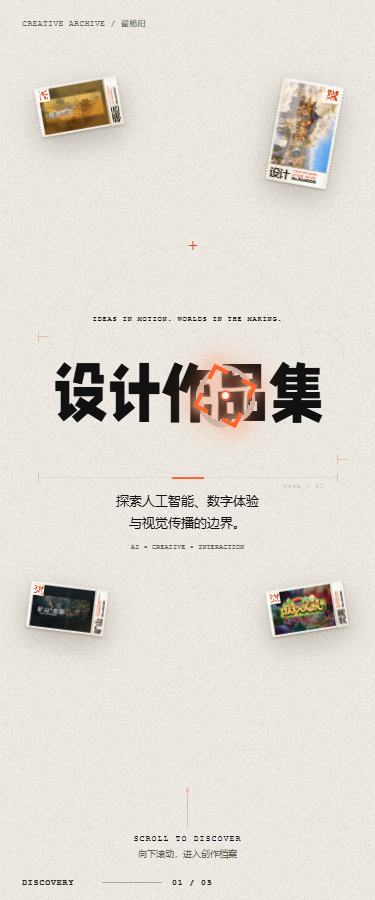
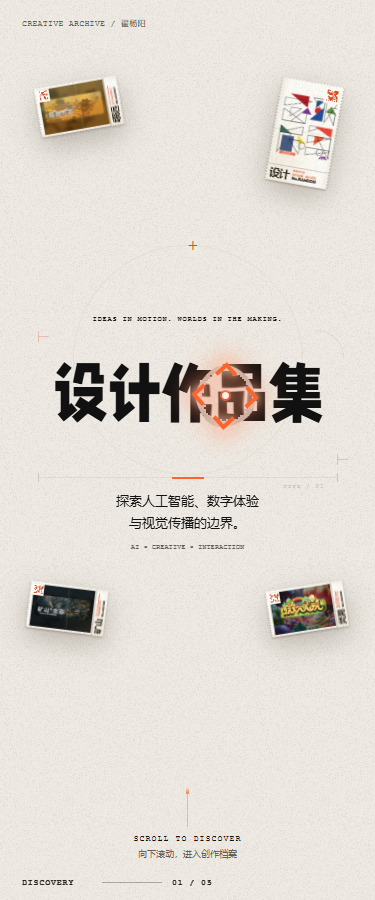
黑屏白点开场后，水滴和标题折叠动画同时入场。

Changed region(s): [[0.704, 0.0933, 0.9093, 0.2178], [0.4987, 0.4044, 0.704, 0.4978]]

diff --git a/New/js/components/GlassTitle.jsx b/New/js/components/GlassTitle.jsx
@@ -25,22 +25,22 @@ export function GlassTitle() {
     return () => clearTimeout(timer);
   }, [ready,reduced]);
   useEffect(() => {
-    const landing = host.current.closest('.hero-landing');
+    const hero = host.current.closest('.hero');
     let active = true, fontReady = false;
-    const reveal = () => { if (active && fontReady && !landing?.inert) setReady(true); };
+    const reveal = () => { if (active && fontReady && Number(hero?.dataset.progress)>=.62) setReady(true); };
     const observer = new MutationObserver(reveal);
-    if (landing) observer.observe(landing, { attributes:true, attributeFilter:['inert'] });
+    if (hero) observer.observe(hero, { attributes:true, attributeFilter:['data-progress'] });
     document.fonts.load('400 100px "PortfolioTitle"', '设计作品集').finally(() => { if (!active) return; fontReady = true; setFontLoaded(true); reveal(); });
     return () => { active = false; observer.disconnect(); };
   }, []);
-  return <div ref={host} className="hero-glass-title hero-fold-title" data-glass-active={glass && !reduced ? 'true' : 'false'}><h1 id="hero-title">
+  return <div ref={host} className="hero-glass-title hero-fold-title" data-title-ready={ready} data-fold-complete={glass} data-glass-active={ready && !reduced ? 'true' : 'false'}><h1 id="hero-title">
     {ready ? <FoldText text="设计作品集" foldStyle="blinds" splitBy="char" hinge="top"
       trigger="mount" foldAngle={90} duration={1.1} stagger={.08} staggerFrom="center"
       ease="expo.out" hoverRefold={false} refoldRadius={100} refoldAngle={60}
       perspective={500} creaseShading={.8} fontSize="inherit" fontWeight={400}/> : '设计作品集'}
   </h1>
     {fontLoaded && !reduced && <div className="hero-glass-title__effect" aria-hidden="true"><Suspense fallback={null}>
-      <FluidGlass text="设计作品集" fontFamily="PortfolioTitle, Microsoft YaHei, sans-serif"
+      <FluidGlass text={glass ? '设计作品集' : ''} fontFamily="PortfolioTitle, Microsoft YaHei, sans-serif"
         fontWeight={400} fontSize={size.font} textColor="#111111" shape="blob" size={size.compact?68:190}
         interaction="follow" refraction={size.compact?.25:.85} dispersion={size.compact?.18:.85} reflection={size.compact?.3:.75}
         shadow={0} elevation={.25} wobble={size.compact?.15:.4} morphOnClick={false}

diff --git a/New/css/glass-title.css b/New/css/glass-title.css
@@ -12,8 +12,10 @@
 }
 .hero-glass-title__effect { position:absolute; inset:-110px 0; }
 .hero-fold-title .hero-glass-title__effect { opacity:0; pointer-events:none; }
-.hero-fold-title[data-glass-active='true']:has(.fluid-glass[data-glass-ready='true']) .hero-glass-title__effect { opacity:1; }
-.hero-fold-title[data-glass-active='true']:has(.fluid-glass[data-glass-ready='true']) h1 { opacity:0; }
+.hero-fold-title[data-glass-active='true']:has(.fluid-glass[data-glass-ready='true']) .hero-glass-title__effect { opacity:1; animation:glass-arrive .8s cubic-bezier(.22,.7,.3,1) both; }
+@keyframes glass-arrive { from { opacity:0; transform:translateY(12px) scale(.92); } to { opacity:1; transform:none; } }
+.hero-fold-title[data-title-ready='false'] h1 { opacity:0; }
+.hero-fold-title[data-glass-active='true'][data-fold-complete='true']:has(.fluid-glass[data-text-rendered='true']) h1 { opacity:0; }
 .hero .hero-fold-title h1 > .fold-text {
   font: inherit;
   letter-spacing: inherit;

diff --git a/New/js/components/FluidGlass.jsx b/New/js/components/FluidGlass.jsx
@@ -1235,6 +1235,7 @@ const FluidGlass = ({
       gl.drawArrays(gl.TRIANGLES, 0, 3);
       container.dataset.rendered = 'true';
       container.dataset.glassReady = 'true';
+      container.dataset.textRendered = s.text.trim() ? 'true' : 'false';
 
       calm =
         !pointer.grabbed &&
